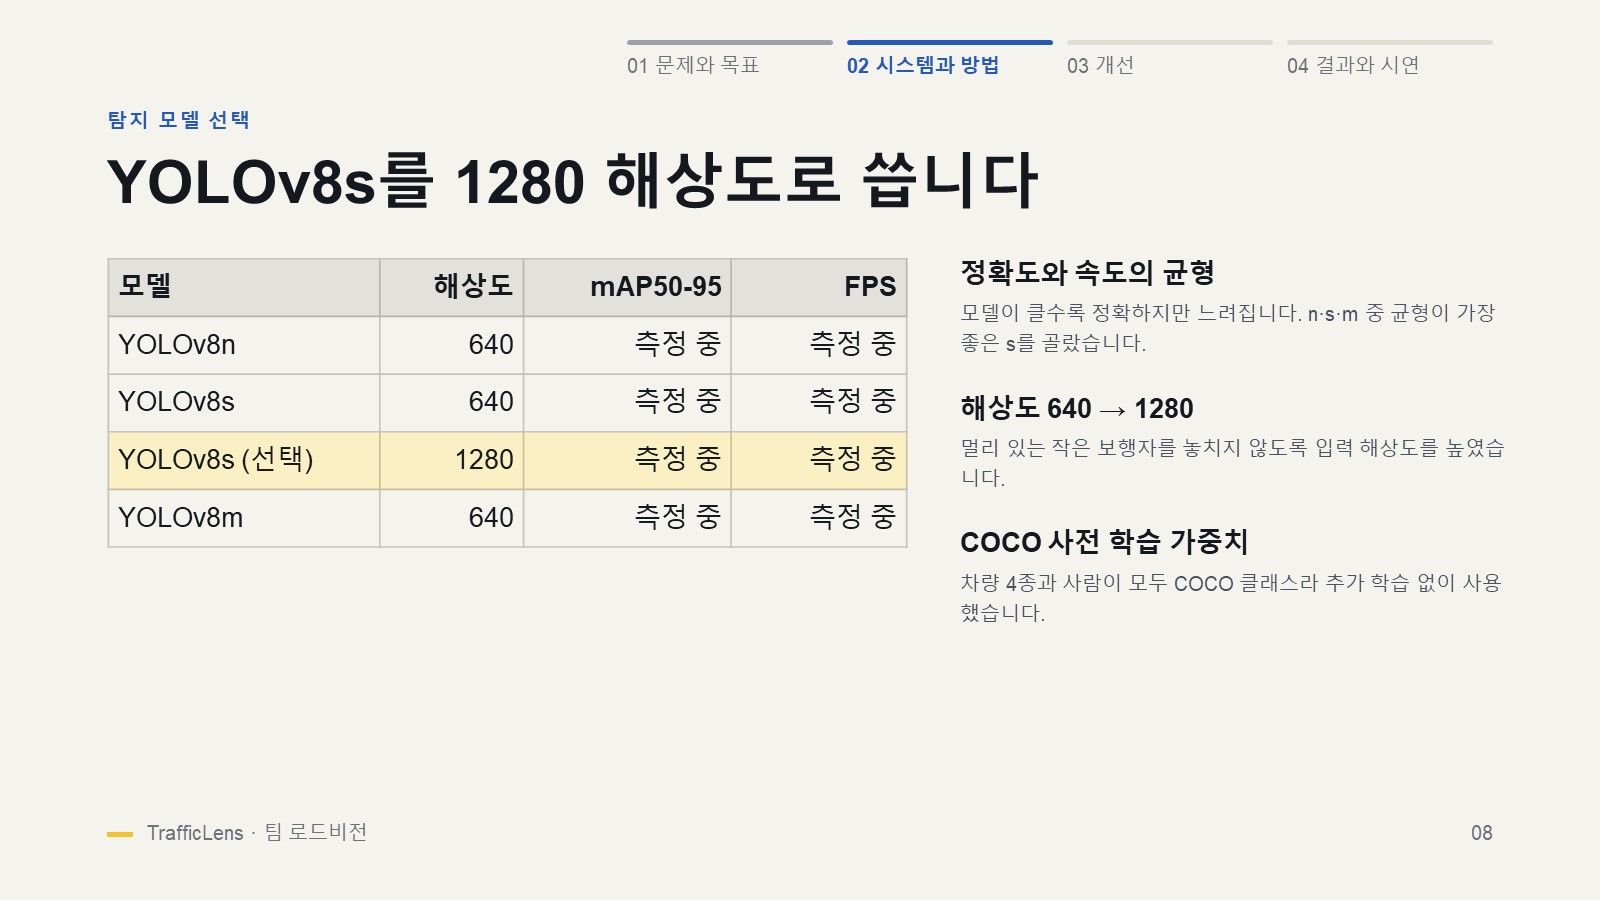
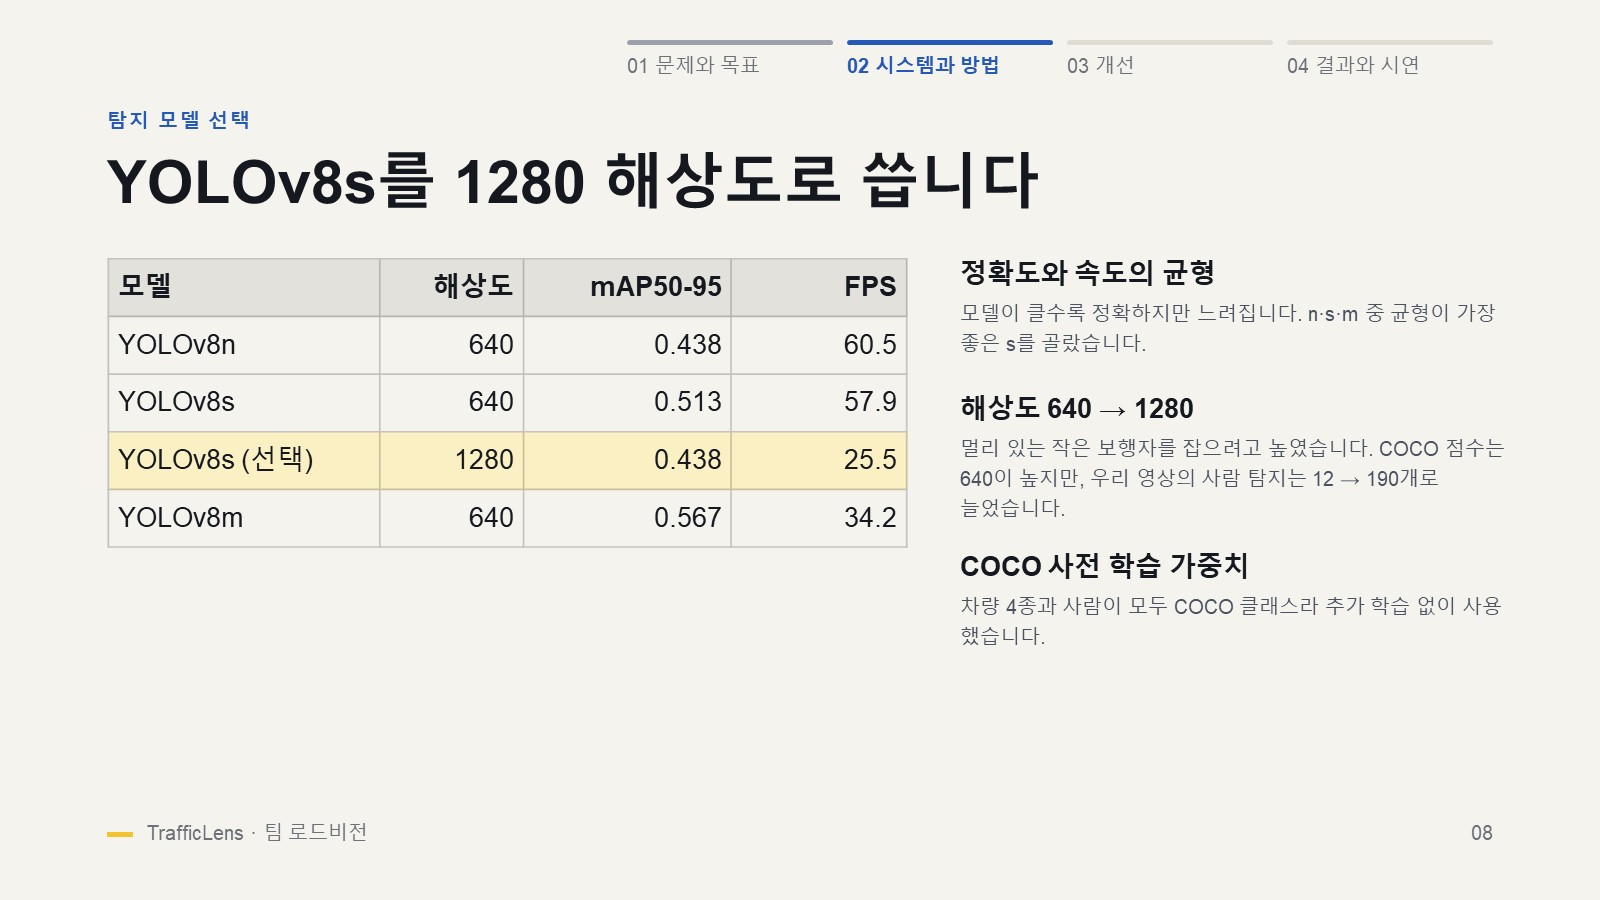
TrafficLens 8장 mAP 표·대본과 보고서 6.2절 직접 측정 mAP 반영

diff --git a/ledger/templates/ledger/trafficlens_report.html b/ledger/templates/ledger/trafficlens_report.html
@@ -179,7 +179,19 @@ python traffic_detect.py --save ""                        # 영상 저장 끄기
         </tbody>
       </table></div>
       <p>추적·화면 표시·영상 저장까지 포함한 전체 처리(90초, 2,698프레임)는 CPU 19분(약 2.4 FPS), GPU 238초(약 11 FPS)가 걸렸고, 탐지·카운팅 결과는 두 장치에서 같았다.</p>
-      <p class="tl-note">측정 환경: CPU Intel Core i5-6600, 메모리 16GB, GPU NVIDIA GeForce GTX 1060 3GB, PyTorch 2.14 (CUDA 12.6), Python 3.14. mAP는 COCO 데이터 다운로드가 커서 직접 재지 않고 6.1절의 공식 수치를 따른다.</p>
+      <p><b>정확도(mAP) 직접 측정</b></p>
+      <p><code>evaluate.py</code>로 COCO val2017(5,000장)에서 교통 관련 5개 클래스(사람·승용차·오토바이·버스·트럭)의 mAP를 재고, 같은 실행에서 GPU 탐지 FPS도 함께 쟀다(2026-10-14). 모델이 클수록 mAP는 오르고 속도는 떨어졌으며, s는 n보다 mAP가 0.075 높으면서 속도는 비슷했다.</p>
+      <div class="tl-table-wrap"><table class="tl-table">
+        <thead><tr><th>모델</th><th>해상도</th><th>mAP50-95</th><th>mAP50</th><th>GPU FPS</th></tr></thead>
+        <tbody>
+          <tr><td>YOLOv8n</td><td>640</td><td>0.438</td><td>0.626</td><td>60.5</td></tr>
+          <tr><td>YOLOv8s</td><td>640</td><td>0.513</td><td>0.708</td><td>57.9</td></tr>
+          <tr class="hl"><td>YOLOv8s (본 시스템)</td><td>1280</td><td>0.438</td><td>0.670</td><td>25.5</td></tr>
+          <tr><td>YOLOv8m</td><td>640</td><td>0.567</td><td>0.759</td><td>34.2</td></tr>
+        </tbody>
+      </table></div>
+      <p>COCO에서는 YOLOv8s·1280(0.438)이 640(0.513)보다 낮다. 모델이 640으로 학습됐고 COCO 물체는 대부분 중간 크기 이상이기 때문이다. 본 시스템이 1280을 쓰는 근거는 테스트 영상의 작은 보행자다. <code>road.mp4</code>에서 고르게 뽑은 60프레임을 YOLOv8s로 탐지하면 사람이 640에서 12개(높이 40픽셀 미만 5개), 1280에서 190개(100개) 잡혔다(<code>compare_resolution.py</code>, 2026-10-15).</p>
+      <p class="tl-note">측정 환경: CPU Intel Core i5-6600, 메모리 16GB, GPU NVIDIA GeForce GTX 1060 3GB, PyTorch 2.14 (CUDA 12.6), Python 3.14. 6.1절 공식 mAP는 80개 클래스 기준이고 위 직접 측정은 5개 클래스 평균이라 두 값은 직접 비교하지 않는다.</p>
       <h3>6.3 탐지 화면</h3>
       <p>삼성역 교차로 영상 90초(2,698프레임)를 YOLOv8s·1280 설정으로 처리한 <code>result.mp4</code>의 장면이다. 왼쪽 위 표가 now·line·total, 가운데 노란 세로선이 기준선이다.</p>
       <figure class="tl-shot">

diff --git a/ledger/trafficlens_data.py b/ledger/trafficlens_data.py
@@ -47,7 +47,7 @@ SLIDES = [
         "n": 8,
         "image": "ledger/projects/trafficlens/slides/slide-08.jpg",
         "title": "YOLOv8s를 1280 해상도로 씁니다",
-        "notes": "탐지 모델은 YOLOv8을 썼습니다. 이미지를 한 번만 보고 위치와 종류를 동시에 찾기 때문에 빠릅니다. 크기가 다른 n, s, m 세 모델을 같은 영상으로 비교했는데, 모델이 클수록 정확도는 오르고 속도는 떨어졌습니다. 그중 정확도와 속도의 균형이 가장 좋은 YOLOv8s를 골랐습니다. 또 멀리 있는 작은 보행자를 놓치지 않도록 입력 해상도를 기본 640에서 1280으로 높였습니다.",
+        "notes": "탐지 모델은 YOLOv8을 썼습니다. 이미지를 한 번만 보고 위치와 종류를 동시에 찾기 때문에 빠릅니다. 크기가 다른 n, s, m 세 모델을 COCO 검증 데이터로 비교했더니, 모델이 클수록 정확도는 오르고 속도는 떨어졌습니다. s는 n보다 정확도가 0.44에서 0.51로 오르면서 속도는 거의 그대로였고, m은 더 정확하지만 속도가 절반 가까이 떨어집니다. 그래서 YOLOv8s를 골랐습니다. 해상도는 640에서 1280으로 높였습니다. COCO 점수는 오히려 640이 높습니다. 그래도 1280을 쓴 이유는 우리 영상에 멀리 있는 작은 보행자가 많기 때문입니다. 같은 60프레임에서 사람 탐지가 640은 12개, 1280은 190개였습니다.",
     },
     {
         "n": 9,
